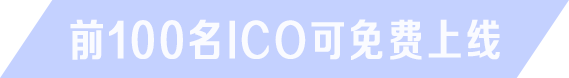
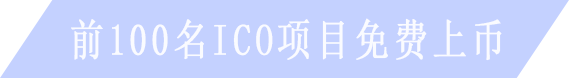
1,增进提示框

Changed region(s): [[0.1195, 0.2308, 0.8963, 0.7692]]

diff --git a/src/views/index.vue b/src/views/index.vue
@@ -32,11 +32,19 @@
           <!-- <img :src="imgs[lanImg].email" style="width:50%" /> -->
           <p>{{hxs[lanImg].email}}</p>
         </div>
+        <div style="margin:0 auto;text-align:center">
+          <a target="_blank" href="https://docs.google.com/forms/d/e/1FAIpQLScJOjJzzIoF-kXbT1-84S8KgfE7BFetHtF1_zpbkFraCu58zg/viewform?usp=sf_link">
+            <md-button class="md-raised" :style="{background:'#557cff',height:'auto'}">
+
+              <p style="font-size:2em;padding:0.3em">{{hxs[lanImg].apply}}</p>
+            </md-button>
+          </a>
+        </div>
       </div>
     </md-content>
     <md-content id="page2">
-      <!-- <div> <img :src="imgs[lanImg].center" class="full" /></div> -->
-      <div class=" md-layout md-gutter">
+      <div class="pc"> <img :src="imgs[lanImg].center" class="full " /></div>
+      <div class=" md-layout md-gutter mo">
         <div class="md-layout-item md-xsmall-size-100">
           <h1>{{hxs[lanImg]['info'].title1}}</h1>
           <h1 v-if="hxs[lanImg]['info'].title2">{{hxs[lanImg]['info'].title2}}</h1>
@@ -148,7 +156,7 @@
           </a>
         </div>
         <div class="md-layout-item">
-          <a href="#">
+          <a href="https://www.facebook.com/Exchangechain-464596853988595/">
             <div class="btnLx">
               <i class="test2 iconfont icon-facebook"></i>
             </div>
@@ -185,7 +193,7 @@ export default {
   // components:{QrcodeVue},
   data() {
     return {
-      lanImg: 'en',
+      lanImg: 'cn',
       lanImgs: ['en', 'cn', 'jp', 'ko'],
       imgs: imgs,
       qrurl: null,
@@ -194,6 +202,7 @@ export default {
       showMenu: false,
       hxs: {
         cn: {
+          apply: '上币申请',
           info: {
             title1: 'ExchangeChain',
             title2: '是什么',
@@ -210,8 +219,8 @@ export default {
               '区块链技术，简称BT（Blockchain technology），称之为分布式账本技术，是互联网数据库技术，其特点是去中心化、公开透明，让每个人均可参与数据查询。'
           },
           hx2: {
-            title: '免费ICO',
-            info: '无需缴纳高昂的上币费用，专业团队对接，ico项目免费上线'
+            title: '免费上币',
+            info: '无需缴纳高昂的上币费用，专业团队对接'
           },
           hx3: { title: '开放性', info: '交易所，各币种以及美元法币自由对接' },
           hx4: {
@@ -233,6 +242,7 @@ export default {
           }
         },
         en: {
+          apply: 'Apply to list',
           info: {
             title1: 'About',
             title2: 'ExchangeChain',
@@ -248,14 +258,14 @@ export default {
               'B.T. as called as distributed ledger technology, use the Internet Database Technology, is a digitized, decentralized, public ledger, it allows market participants to keep track of all transactions without central recordkeeping.'
           },
           hx2: {
-            title: 'Free ICO',
+            title: 'No listing fee',
             info:
-              'Listing Free No Charge, professional team support, Free Launching ICO projects.'
+              'No need to pay expensive listing fee, professional team support on listin'
           },
           hx3: {
             title: 'Open',
             info:
-              'xchanges support for all tokens, USD and other legal currencies. '
+              'Exchanges support for all tokens, USD and other legal currencies. '
           },
           hx4: {
             title: 'High transparency and credibility',
@@ -273,10 +283,11 @@ export default {
           },
           hx7: {
             title: 'Fast transaction',
-            info: 'adoption of POS, faster confirmed transactions only 1 second'
+            info: 'Adoption of POS, faster confirmed transactions only 1 second'
           }
         },
         jp: {
+          apply: 'Apply to list',
           info: {
             title1: 'ExchangeChain',
             title2: 'とは？',
@@ -321,6 +332,7 @@ export default {
           }
         },
         ko: {
+          apply: 'Apply to list',
           info: {
             title1: '두 째  엑스체인지가 이란?',
 
@@ -367,16 +379,43 @@ export default {
       }
     }
   },
+  watch: {
+    lanImg(v, o) {
+      var list = ['cn', 'en']
+      var i = list.indexOf(v)
+      if (i < 0) return
+      this.showNotice(i + 1)
+    }
+  },
   methods: {
     handleStart(img) {
       this.lanImg = img
+    },
+    showNotice(num) {
+      var t1 = 'Exchain超级合作伙伴计划开启',
+        t2 = 'The Super Partner Project of Exchain',
+        c1 =
+          '<div style="padding:10px">Exchain数字货币交易所即将在7月中下旬正式上线。即日起，Exchain开启“超级合作伙伴”计划。<br/><br/>每一位Exchain交易所的用户只需邀请新用户到交易所进行交易，就可以成为“普通合作伙伴”。普通合作伙伴可获得交易所的平台币奖励，同时还能获得用户分成。<br/><br/>普通合作伙伴成功邀请50个新用户到交易所进行交易，即可成为“超级合作伙伴”，除了享有普通合作伙伴的平台币奖励和用户分成以外，还能获得一定数量的现金回馈。<br/><br/>如有意向成为Exchain的超级合作伙伴，请发送邮件至partner@exchain.com 获取相关信息。</div>',
+        c2 =
+          '<div style="padding:10px">Exchain, a digital asset exchange, is about to be launched in middle July. From now on, Exchain opens the "Super Partner" project.<br/><br/>Everyone can be the “partner” of Exchain as long as the new users he/she invited have exchanged digital asset on Exchain. The partner can get digital asset of Exchain and user’s commission as reward.<br/><br/>The partner can become the “super partner” if he/she successfully invites 50 new users to trade on Exchain. And the super partner can also get digital asset of Exchain and user’s commission as reward. What’s more, he/she can get a fixed number of cash.<br/><br/>If you are interested in becoming the super partner of Exchain, please send email to partner@exchain.com  for more information.</div>'
+      this.$Modal.info({
+        title: eval('t' + num),
+        content: eval('c' + num)
+      })
     }
   },
-  mounted() {}
+  mounted() {
+    this.showNotice(1)
+  }
 }
 </script>
 
 <style>
+/* .md-button.md-raised:not([disabled]) {
+  background-color: #557cff;
+  color: white;
+  font-size: 2em;
+} */
 a:link {
   text-decoration: none !important;
 }
@@ -472,12 +511,12 @@ a:link {
 }
 #page2 p {
   padding: 2vh 3vh 2vh 0;
-  font-size: 1.5em;
-  line-height: 1.5em;
+  font-size: 3vh;
+  line-height: 3vh;
 }
-#page2 img {
+/* #page2 img {
   padding: 5vh 0 0 3vh;
-}
+} */
 #page3 {
   padding: 3vh 20%;
   background-color: #557cff;
@@ -615,7 +654,19 @@ a:link {
 .ivu-poptip-popper {
   min-width: 0 !important;
 }
+.pc {
+  display: block;
+}
+.mo {
+  display: none !important;
+}
 @media screen and(max-width: 600px) {
+  .mo {
+    display: block !important;
+  }
+  .pc {
+    display: none !important;
+  }
   #page1,
   #page2,
   #page3,

diff --git a/webpack.dev.config.js b/webpack.dev.config.js
@@ -5,9 +5,10 @@ const merge = require('webpack-merge');
 const webpackBaseConfig = require('./webpack.base.config.js');
 const fs = require('fs');
 
-fs.open('./src/config/env.js', 'w', function(err, fd) {
+fs.open('./src/config/env.js', 'w', function (err, fd) {
     const buf = 'export default "development";';
-    fs.write(fd, buf, 0, buf.length, 0, function(err, written, buffer) {});
+    // fs.write(fd, buf, 0, buf.length, 0, function (err, written, buffer) {});
+    fs.write(fd, buf, function (err, written, buffer) {});
 });
 
 module.exports = merge(webpackBaseConfig, {
@@ -31,5 +32,9 @@ module.exports = merge(webpackBaseConfig, {
             template: './src/template/index.ejs',
             inject: false
         })
-    ]
+    ],
+    devServer: {
+        host: '127.0.0.1',
+        port: 4001,
+    },
 });

diff --git a/index_prod.html b/index_prod.html
@@ -5,13 +5,13 @@
     <title>iView project</title>
     <meta charset="UTF-8">
     <meta name="viewport" content="width=device-width,initial-scale=1.0,maximum-scale=1.0,user-scalable=0">
-    <link rel="stylesheet" href="/dist/main.09ef3aea6b677387fdad.css">
+    <link rel="stylesheet" href="/dist/main.00d88fb32f17f09dc865.css">
 </head>
 
 <body>
     <div id="app"></div>
-    <script type="text/javascript" src="/dist/vendors.09ef3aea6b677387fdad.js"></script>
-    <script type="text/javascript" src="/dist/main.09ef3aea6b677387fdad.js"></script>
+    <script type="text/javascript" src="/dist/vendors.00d88fb32f17f09dc865.js"></script>
+    <script type="text/javascript" src="/dist/main.00d88fb32f17f09dc865.js"></script>
 </body>
 
 </html>
